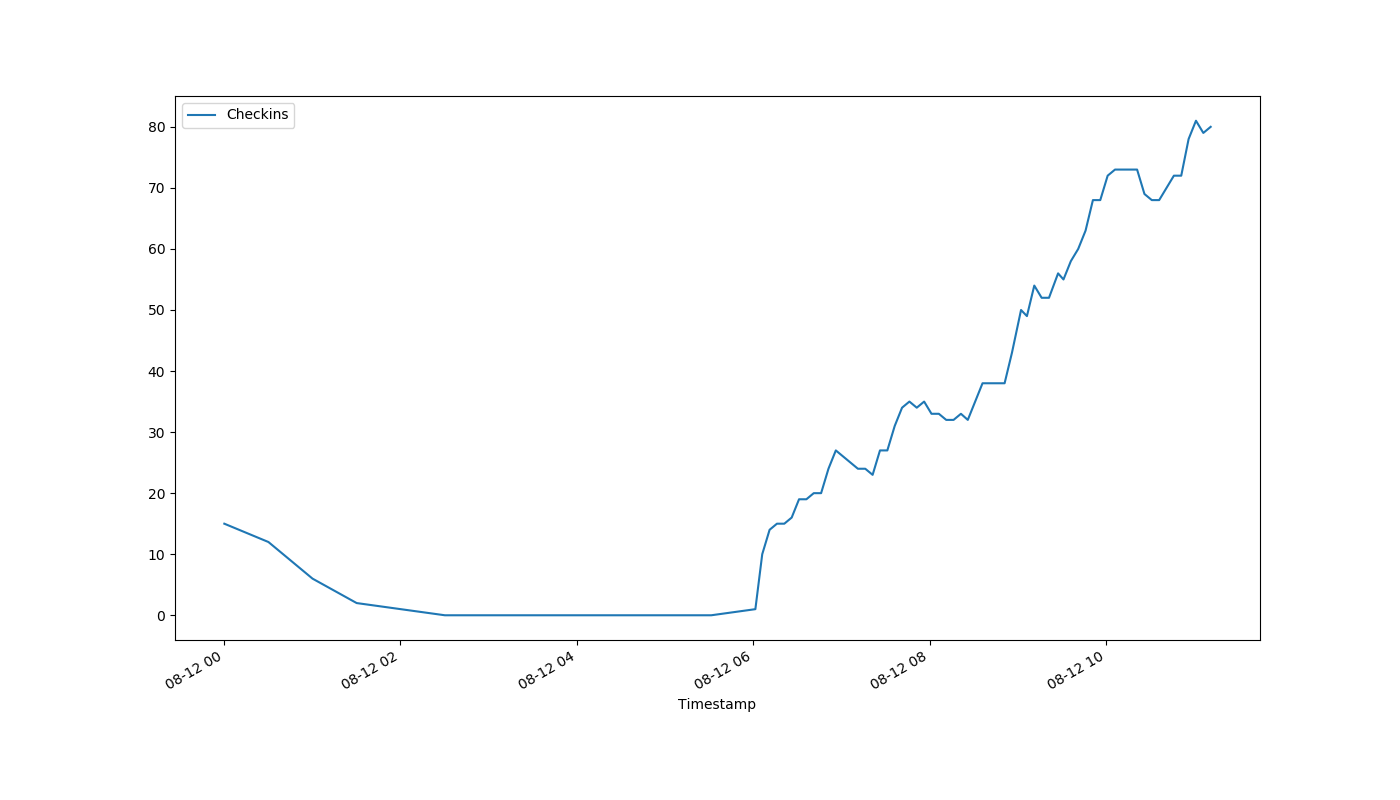
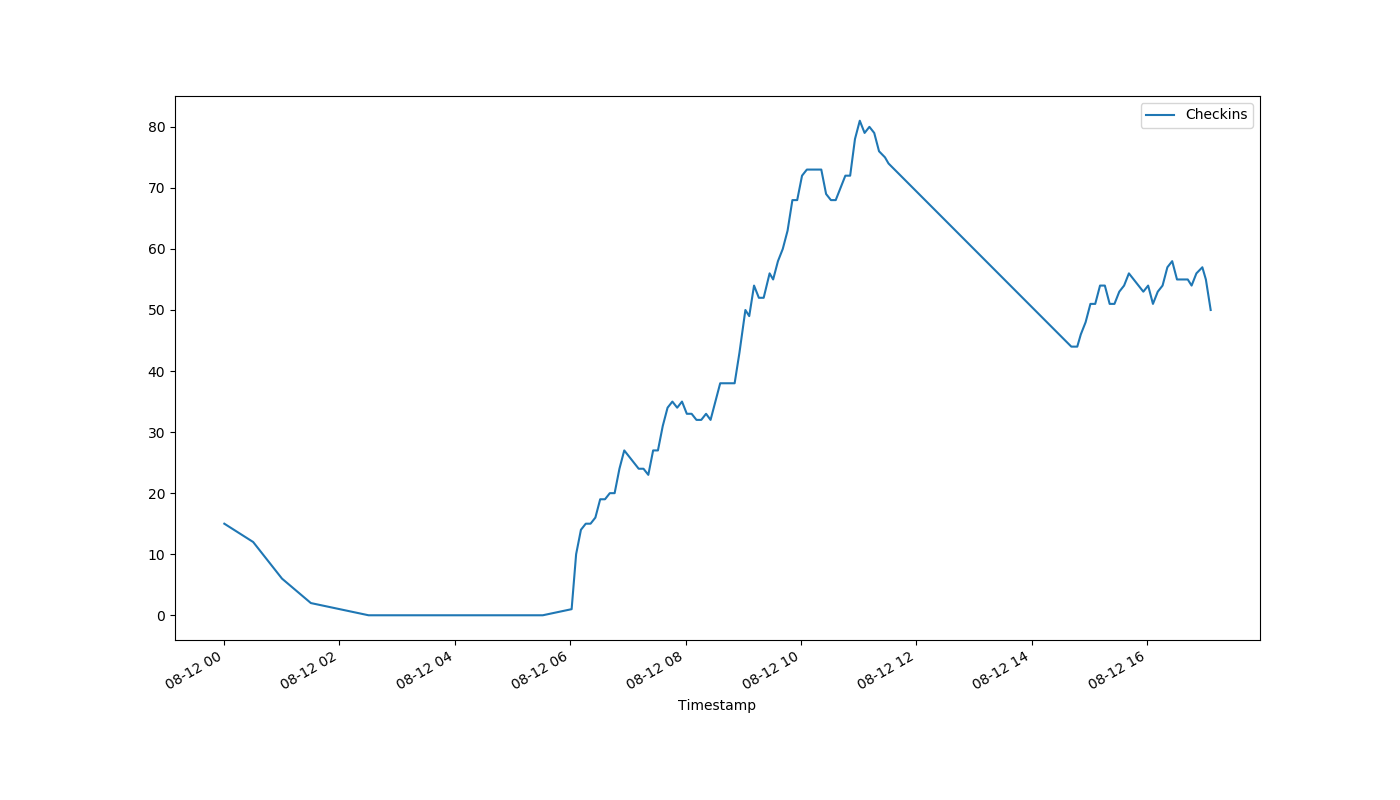
auto-Aug-12-17:07:22

diff --git a/index.html b/index.html
@@ -1,1 +1,1 @@
-<!DOCTYPE html><html><head><meta http-equiv="refresh" content="30"><link rel='stylesheet' href='holmcurrent.css'></head><body><p id='count'>80</p><div id='graph-wrap'><img id='graph' src='holmgraph-Aug-12.png'></div><p id='updated'>Last updated 11:12:02 / 11:11:12</p></body></html>
+<!DOCTYPE html><html><head><meta http-equiv="refresh" content="30"><link rel='stylesheet' href='holmcurrent.css'></head><body><p id='count'>50</p><div id='graph-wrap'><img id='graph' src='holmgraph-Aug-12.png'></div><p id='updated'>Last updated 17:06:17 / 17:06:09</p></body></html>
